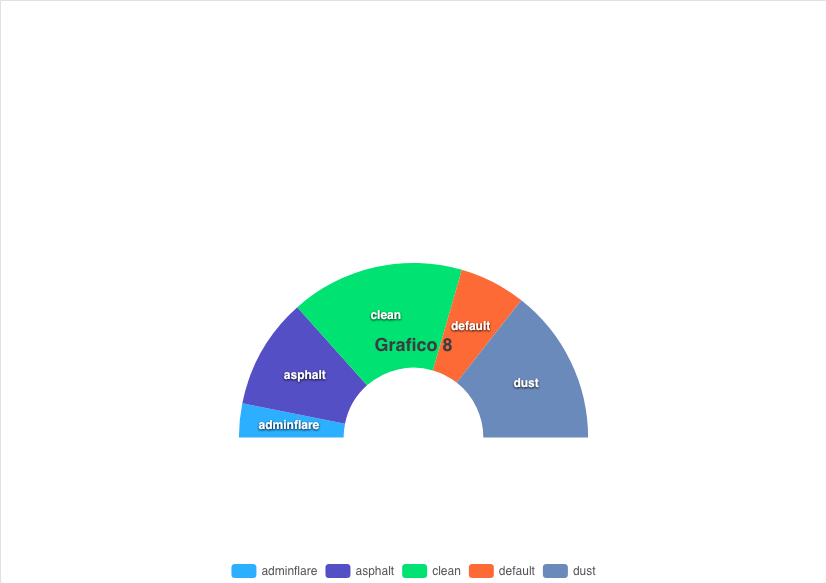
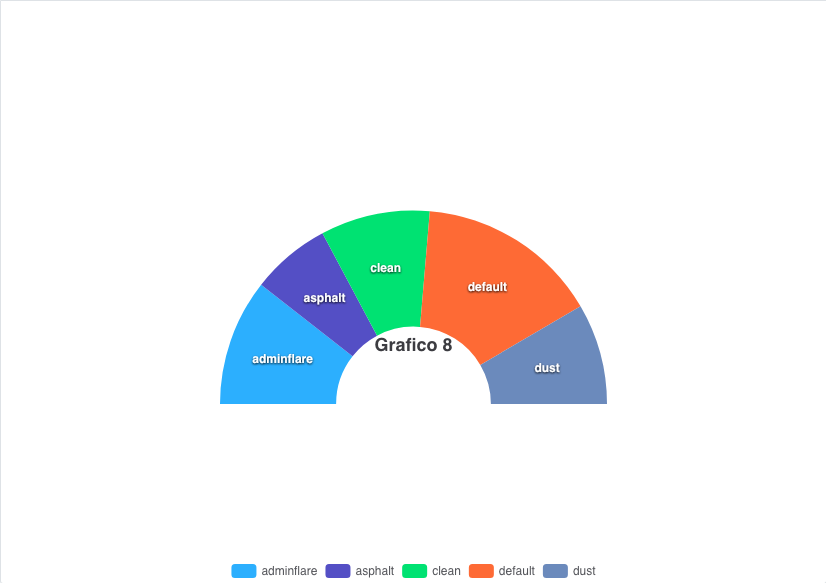
fix: place semicircles in the plot area like Highcharts (#795)

Changed region(s): [[0.2421, 0.3396, 0.7567, 0.7719]]

diff --git a/awe-framework/awe-client-react/src/utilities/echartsOption.js b/awe-framework/awe-client-react/src/utilities/echartsOption.js
@@ -237,25 +237,69 @@ function buildSeries(serie, environment, index) {
   applyMarkerFill(built, hints.markerFill, info.color ?? palette[index % palette.length]);
   SERIES_INFO.set(built, info);
   if (isPie(serie)) {
-    layoutPie(built, serie, hasTitle);
+    layoutPie(built, serie, hasTitle, environment.plotArea);
     fitPieLabels(built, environment);
   }
   return built;
 }
 
 /**
- * Size and place a pie: the Highcharts size leaves room for the labels, and a title takes room above
+ * Size and place a pie. A pie whose model gives its center (a semicircle) takes the geometry of
+ * Highcharts: its center and its size are measured in the plot area. Otherwise the size is scaled down, because the
+ * Highcharts plot area leaves room for the title and the legend, and a title lowers the pie
  * @param {object} built Series for ECharts, which is changed
  * @param {object} serie Series of the model
  * @param {boolean} hasTitle The chart has a title
+ * @param {PlotArea|null} plotArea Plot area of the chart, null when the size of the chart is unknown
  */
-function layoutPie(built, serie, hasTitle) {
+function layoutPie(built, serie, hasTitle, plotArea) {
+  if (Array.isArray(serie.center) && plotArea) {
+    built.center = [
+      toPlotPixels(serie.center[0], plotArea.left, plotArea.width),
+      toPlotPixels(serie.center[1], plotArea.top, plotArea.height)
+    ];
+    if (serie.radius !== undefined) {
+      built.radius = plotRadius(serie.radius, Math.min(plotArea.width, plotArea.height) / 2);
+    }
+    return;
+  }
   if (serie.radius !== undefined) {
     built.radius = scaleRadius(serie.radius);
   }
   if (hasTitle && serie.center === undefined) {
     built.center = ["50%", "54%"];
   }
+}
+
+/**
+ * Turn a percentage radius into pixels of the plot area
+ * @param {string|number|Array} radius Radius, or [inner, outer] radius
+ * @param {number} half Half of the smaller side of the plot area
+ * @returns {string|number|Array} Radius in pixels, or the value when it is not a percentage
+ */
+function plotRadius(radius, half) {
+  if (Array.isArray(radius)) {
+    return radius.map(value => plotRadius(value, half));
+  }
+  const percent = typeof radius === "string" && radius.trim().endsWith("%") ? Number.parseFloat(radius) : Number.NaN;
+  return Number.isFinite(percent) ? percent / 100 * half : radius;
+}
+
+/**
+ * Turn a coordinate of the plot area into pixels of the chart. Highcharts measures the center of a pie in the plot
+ * area (a percentage of its size, or pixels from its corner), ECharts measures it in the whole chart, legend included
+ * @param {string|number} value Percentage (`75%`) or pixels
+ * @param {number} start Start of the plot area in pixels
+ * @param {number} length Size of the plot area in pixels
+ * @returns {string|number} Pixels of the chart, or the value when it is not a coordinate
+ */
+function toPlotPixels(value, start, length) {
+  if (typeof value === "string" && value.trim().endsWith("%")) {
+    const percent = Number.parseFloat(value);
+    return Number.isFinite(percent) ? start + percent / 100 * length : value;
+  }
+  const pixels = typeof value === "string" && value.trim() === "" ? Number.NaN : Number(value);
+  return Number.isFinite(pixels) ? start + pixels : value;
 }
 
 /**
@@ -556,6 +600,52 @@ function legendSide(legend) {
 }
 
 /**
+ * Add the room of the legend to the margins of the plot area
+ * @param {{top: number, right: number, bottom: number, left: number}} margin Margins, which are changed
+ * @param {string} legendPlace Side of the legend
+ * @param {boolean} hasLegendTitle The legend has a title
+ */
+function addLegendMargin(margin, legendPlace, hasLegendTitle) {
+  if (legendPlace === "top" || legendPlace === "bottom") {
+    margin[legendPlace] += LAYOUT.legend + (hasLegendTitle ? LAYOUT.legendTitle : 0);
+  } else if (legendPlace !== "none") {
+    margin[legendPlace] += LAYOUT.verticalLegend;
+  }
+}
+
+/**
+ * Plot area of a chart without axes, in pixels
+ * @typedef {object} PlotArea
+ * @property {number} left Left side
+ * @property {number} top Top side
+ * @property {number} width Width
+ * @property {number} height Height
+ */
+
+/**
+ * Plot area of a chart without axes: the chart without its margins, the legend and a title on top. A title placed in
+ * the middle floats over the plot, like in Highcharts
+ * @param {object} model ECharts model
+ * @param {{width: number, height: number}} size Size of the chart
+ * @returns {PlotArea|null} Plot area, null when the size of the chart is unknown
+ */
+function pieArea(model, {width, height}) {
+  if (!(width > 0 && height > 0)) {
+    return null;
+  }
+  const margin = {top: LAYOUT.margin, right: LAYOUT.margin, bottom: LAYOUT.margin, left: LAYOUT.margin};
+  if (model.title?.text && model.title.top !== "middle") {
+    margin.top += LAYOUT.title + (model.title.subtext ? LAYOUT.subtitle : 0);
+  }
+  const legendPlace = legendSide(model.legend);
+  addLegendMargin(margin, legendPlace, Boolean(hintsOf(model.legend).title) && legendPlace !== "none");
+  return {
+    left: margin.left, top: margin.top,
+    width: Math.max(width - margin.left - margin.right, 0), height: Math.max(height - margin.top - margin.bottom, 0)
+  };
+}
+
+/**
  * Margins of the plot area. The server does not send the grid, but the title, the legend and the slider need room
  * @param {object} model ECharts model
  * @param {string} legendPlace Side of the legend
@@ -571,11 +661,7 @@ function buildGrid(model, legendPlace, hasLegendTitle, extraBottom) {
   if (model.title?.subtext) {
     margin.top += LAYOUT.subtitle;
   }
-  if (legendPlace === "top" || legendPlace === "bottom") {
-    margin[legendPlace] += LAYOUT.legend + (hasLegendTitle ? LAYOUT.legendTitle : 0);
-  } else if (legendPlace !== "none") {
-    margin[legendPlace] += LAYOUT.verticalLegend;
-  }
+  addLegendMargin(margin, legendPlace, hasLegendTitle);
   if (asArray(model.dataZoom).some(zoom => zoom.type === "slider")) {
     margin.bottom += LAYOUT.slider;
   }
@@ -787,6 +873,7 @@ export function buildEChartsOption(model, values, context) {
   environment.hasTitle = Boolean(model.title?.text);
   environment.tooltipHints = hintsOf(model.tooltip);
   environment.palette = paletteOf(model);
+  environment.plotArea = pieArea(model, environment);
   const {t} = environment;
 
   // Series (a drilldown series replaces the one that was drilled)

diff --git a/awe-framework/awe-client-react/test/js/utilities/echartsOptionTest.jsx b/awe-framework/awe-client-react/test/js/utilities/echartsOptionTest.jsx
@@ -237,8 +237,47 @@ describe('awe-react-client/test/js/utilities/echartsOptionTest.jsx', () => {
       expect(donut.radius).toEqual(["24%", "60%"]);
     });
 
-    it('should keep the center of a semicircle', () => {
-      expect(build("ChrSemiCircleTst").series[0].center).toEqual(["50%", "75%"]);
+    it('should place the center of a semicircle in the plot area, without the legend, like Highcharts', () => {
+      // Plot area of 800x400: margins of 16, the legend takes 34 more below, the title in the middle takes no room
+      expect(build("ChrSemiCircleTst").series[0].center).toEqual([400, 16 + 0.75 * (400 - 16 - 50)]);
+    });
+
+    it('should size a semicircle in the plot area, like Highcharts, without the room for outer labels', () => {
+      // The smaller side of the plot area is 400 - 16 - 50 = 334 px; Highcharts sizes are diameters
+      const half = (400 - 16 - 50) / 2;
+
+      expect(build("ChrSemiCircleTst").series[0].radius).toEqual([0.3 * half, 0.75 * half]);
+    });
+
+    it('should leave room for a title on top when it places a pie center', () => {
+      const model = clone(models.ChrPieTst);
+      model.title = {text: "Title"};
+      model.legend = {show: false};
+      model.series[0].center = ["50%", 100];
+
+      const option = buildEChartsOption(model, values, context());
+
+      // The top title takes 28 px; a number is in pixels from the plot area, like in Highcharts
+      expect(option.series[0].center).toEqual([400, 16 + 28 + 100]);
+    });
+
+    it('should leave room for a side legend with a title, and keep the values that are not coordinates', () => {
+      const model = clone(models.ChrSemiCircleTst);
+      model.legend = {show: true, orient: "vertical", left: "right", awe: {title: "Themes"}};
+      model.series[0].center = ["50%", "middle"];
+      model.series[0].radius = [40, "50%"];
+
+      const pie = buildEChartsOption(model, values, context()).series[0];
+
+      // The vertical legend takes 120 px on the right: the plot area is 800 - 16 - 136 wide and 400 - 32 high
+      expect(pie.center).toEqual([16 + 0.5 * (800 - 16 - 136), "middle"]);
+      expect(pie.radius).toEqual([40, 0.5 * (400 - 32) / 2]);
+    });
+
+    it('should keep the percentage center of a pie when the size of the chart is unknown', () => {
+      const option = buildEChartsOption(clone(models.ChrSemiCircleTst), values, context({width: 0, height: 0}));
+
+      expect(option.series[0].center).toEqual(["50%", "75%"]);
     });
 
     it('should not move the center of a pie without title', () => {

diff --git a/awe-framework/awe-client-react/test/js/components/AweChartTest.jsx b/awe-framework/awe-client-react/test/js/components/AweChartTest.jsx
@@ -309,6 +309,22 @@ describe('awe-react-client/test/js/components/AweChartTest.jsx', () => {
       expect(lastOption().title.top).toBe(288);
     });
 
+    it('should place a semicircle again with the new size of the container', () => {
+      jest.useFakeTimers();
+      renderChart(clone(models.ChrSemiCircleTst));
+      // Plot area of 900x500: margins of 16 and the legend below (34)
+      expect(lastOption().series[0].center).toEqual([450, 16 + 0.75 * (500 - 16 - 50)]);
+
+      Object.defineProperty(HTMLElement.prototype, "clientWidth", {configurable: true, get: () => 600});
+      Object.defineProperty(HTMLElement.prototype, "clientHeight", {configurable: true, get: () => 400});
+      act(() => {
+        observers[0].callback();
+        jest.advanceTimersByTime(60);
+      });
+
+      expect(lastOption().series[0].center).toEqual([300, 16 + 0.75 * (400 - 16 - 50)]);
+    });
+
     it('should stop observing when it is unmounted', () => {
       const {unmount} = renderChart(models.ChrLinTst);
 

diff --git a/website/docs/api/chart.md b/website/docs/api/chart.md
@@ -608,7 +608,9 @@ radius and `plotOptions.pie.innerSize` the inner radius, relative to `size`. The
 ### Semicircle chart
 
 Type `semicircle` draws only the upper half of a donut. The labels are written inside the slices (a negative
-`dataLabels.distance`), and the title is moved to the middle of the chart with the `title` parameters.
+`dataLabels.distance`), and the title is moved to the middle of the chart with the `title` parameters. Like in
+Highcharts, the center and the size of the semicircle are measured in the plot area, which leaves out the legend, so
+the title sits in the hole.
 
 <img alt="Semicircle chart with the labels inside the slices" src={require('@docusaurus/useBaseUrl').default('img/charts/echarts-semicircle.png')} />
 
